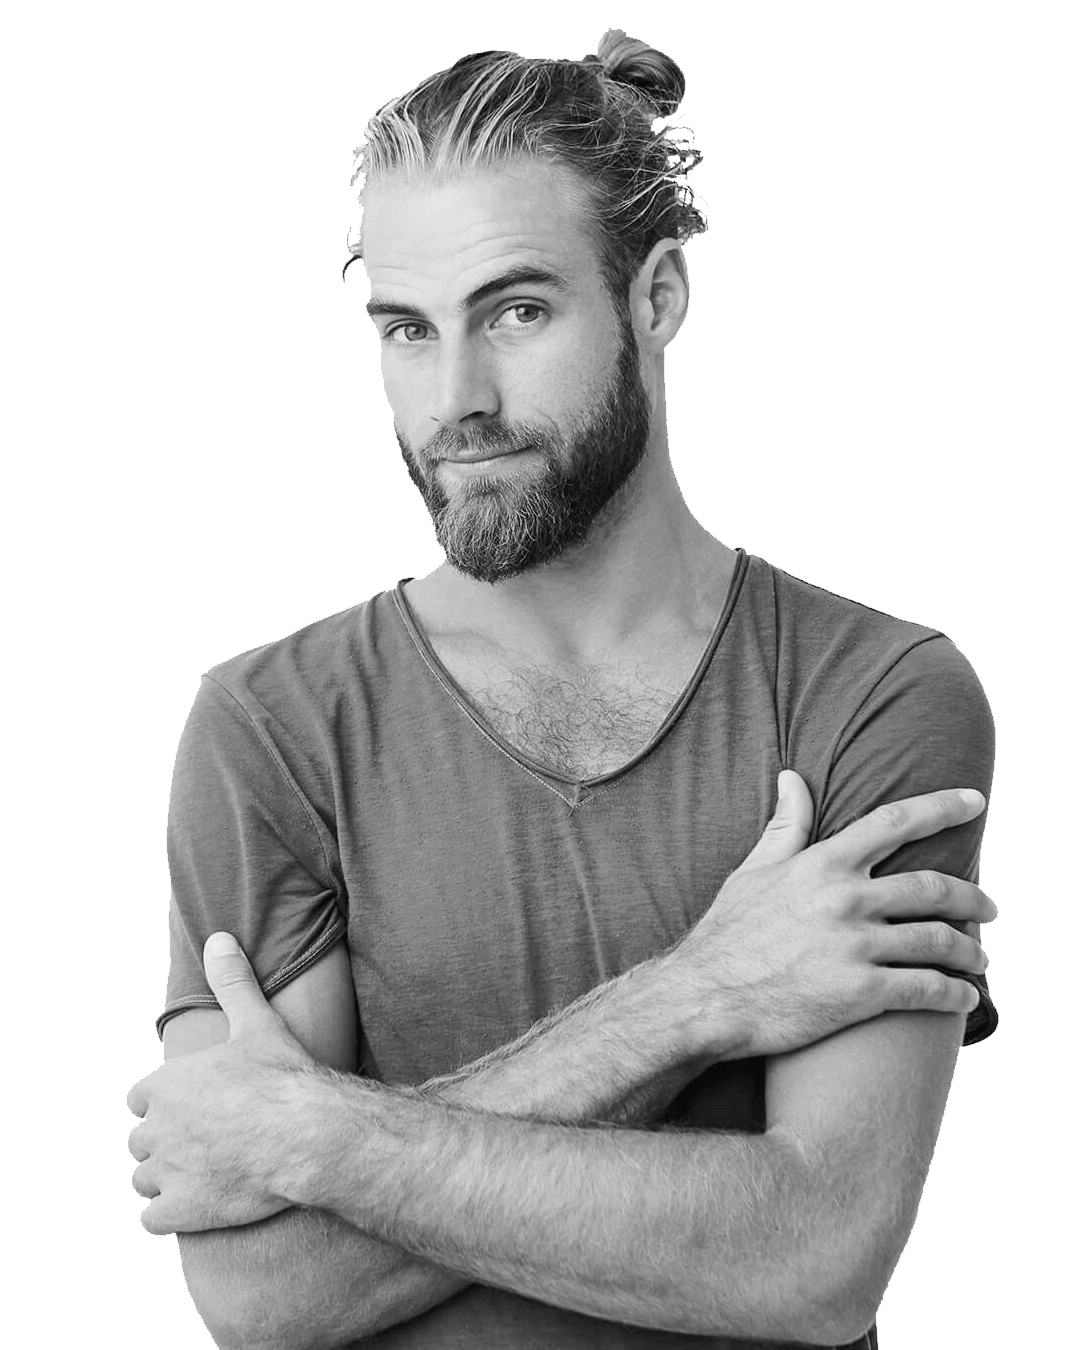
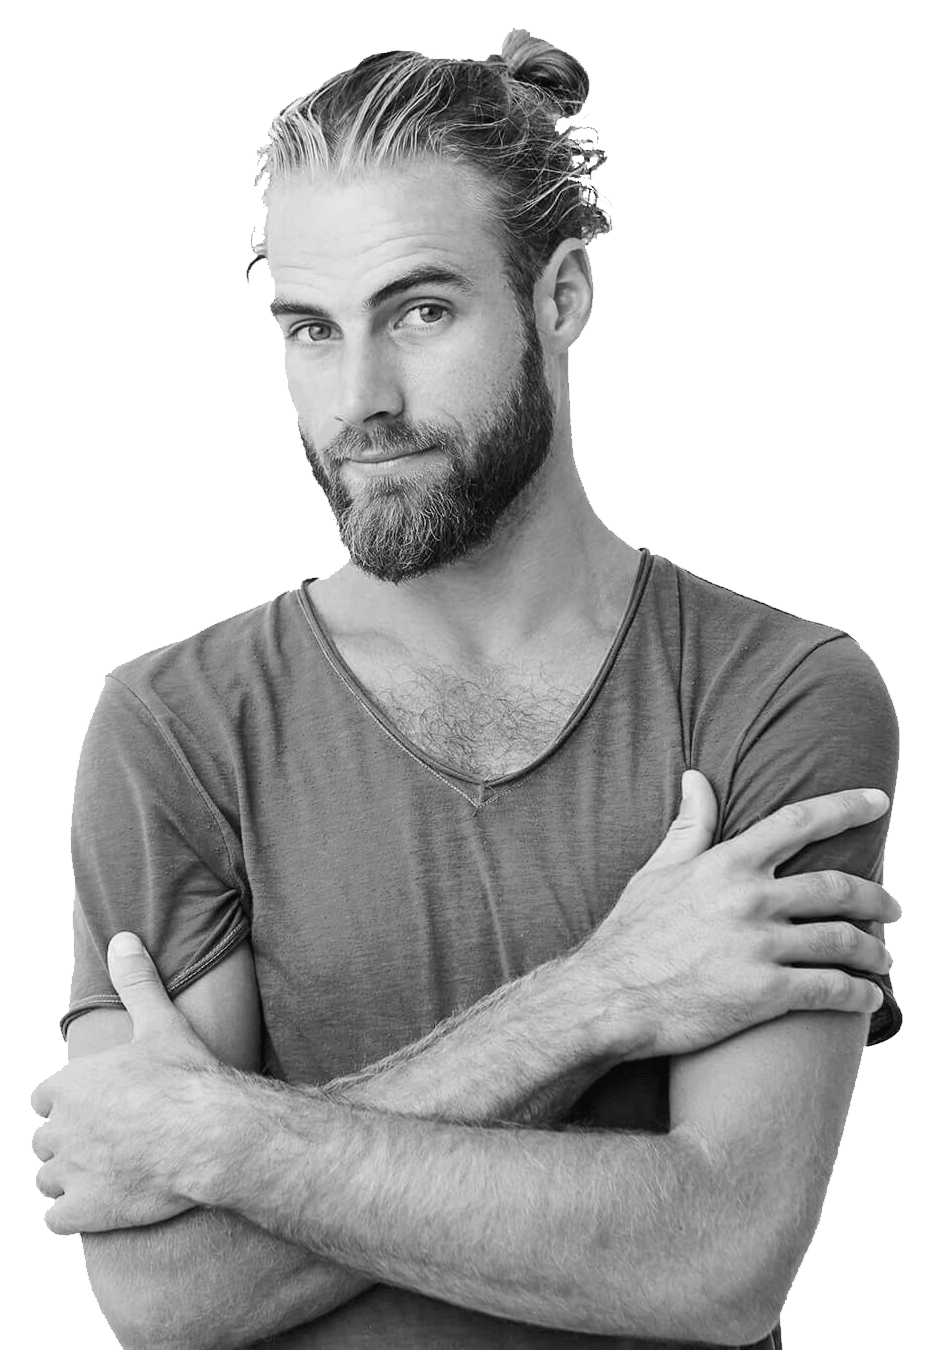
updated

Changed region(s): [[0.0312, 0.0, 0.9667, 1.0], [0.4989, 0.9644, 0.5613, 0.9956]]

diff --git a/portfolio-web/src/app/page.tsx b/portfolio-web/src/app/page.tsx
@@ -4,16 +4,17 @@ import Headings from "@/components/Headings";
 import { motion } from "framer-motion";
 import portfolioImage from "../../public/hero_02.png";
 import Button from "@/components/Button";
-import { IoCloudDownloadOutline } from "react-icons/io5";
+import { LuExternalLink } from "react-icons/lu";
 import { BsBarChartLine } from "react-icons/bs";
 import { MdOutlineRocketLaunch } from "react-icons/md";
 import { AiOutlinePieChart } from "react-icons/ai";
+import Link from "next/link";
 
 export default function Home() {
   return (
     <div className="px-6 lg:px-12 2xl:px-24 py-12">
-      <div className="flex h-[500px]">
-        <div className="px-2 overflow-hidden relative">
+      <div className="flex justify-end h-[500px] md:flex-row-reverse flex-col">
+        <div className="px-2 relative">
           <motion.span
             initial={{ scaleX: 0, x: "-50%" }}
             animate={{ scaleX: 1 }}
@@ -36,17 +37,17 @@ export default function Home() {
           </motion.p>
           <Headings headText="Zubair" headClass="-mb-6 z-10" />
           <Headings headText="Ahmed." headClass="mb-8 z-10" />
-          <a
+          <Link
             href="/my_resume.pdf"
-            download="My_Resume.pdf"
             className="btn btn-primary"
+            target="_blank"
           >
             <Button
-              btnText="Download CV"
-              btnClass=""
-              btnIcon={<IoCloudDownloadOutline />}
+              btnText="Resume"
+              btnClass="flex-row-reverse px-4 py-3"
+              btnIcon={<LuExternalLink className="ml-1" />}
             />
-          </a>
+          </Link>
         </div>
         <motion.div
           initial={{ opacity: 0, scale: 0.8, rotate: 15 }}
@@ -59,7 +60,7 @@ export default function Home() {
             alt="Portfolio Image"
             width={500}
             height={300}
-            className="w-[550px] relative -bottom-12 -z-20"
+            className="w-[480px] relative -bottom-12 -z-20"
           />
         </motion.div>
       </div>
@@ -70,7 +71,7 @@ export default function Home() {
           transition={{ delay: 0, duration: 0.5 }}
           className="px-10 py-16 shadow-lg border-2 border-red-400 bg-gradient-to-br from-red-500 via-red-600 to-orange-600"
         >
-          <BsBarChartLine className="text-white h-10 w-12 mb-12" />
+          <BsBarChartLine className="text-white h-12 w-12 mb-12" />
           <motion.p
             initial={{ opacity: 0, x: -15 }}
             animate={{ opacity: 1, x: 0 }}
@@ -97,7 +98,7 @@ export default function Home() {
           transition={{ delay: 0, duration: 0.5 }}
           className="group px-10 py-16 shadow-lg border-2 border-zinc-100 hover:border-red-400 bg-gradient-to-br from-white to-zinc-50 hover:bg-gradient-to-br hover:from-red-500 hover:via-red-600 hover:to-orange-600 "
         >
-          <MdOutlineRocketLaunch className="text-red-500 group-hover:text-white h-10 w-12 mb-12" />
+          <MdOutlineRocketLaunch className="text-red-500 group-hover:text-white h-12 w-12 mb-12" />
           <motion.p
             initial={{ opacity: 0, x: -15 }}
             animate={{ opacity: 1, x: 0 }}
@@ -124,14 +125,14 @@ export default function Home() {
           transition={{ delay: 0, duration: 0.5 }}
           className="group px-10 py-16 shadow-lg border-2 border-zinc-100 hover:border-red-400 bg-gradient-to-br from-white to-zinc-50 hover:bg-gradient-to-br hover:from-red-500 hover:via-red-600 hover:to-orange-600 "
         >
-          <AiOutlinePieChart className="text-red-500 group-hover:text-white h-10 w-12 mb-12" />
+          <AiOutlinePieChart className="text-red-500 group-hover:text-white h-12 w-12 mb-12" />
           <motion.p
             initial={{ opacity: 0, x: -15 }}
             animate={{ opacity: 1, x: 0 }}
             transition={{ delay: 0.3, duration: 0.6 }}
             className="font-bold text-2xl text-zinc-900  group-hover:text-white mb-1"
           >
-            Inovative Solutions.
+            Innovative Solutions.
           </motion.p>
           <hr className="w-12 border-red-500 border-[1px] group-hover:border-white mb-6" />
 
@@ -139,12 +140,12 @@ export default function Home() {
             initial={{ opacity: 0, x: -15 }}
             animate={{ opacity: 1, x: 0 }}
             transition={{ delay: 0.3, duration: 0.6 }}
-            className="text-sm text-zinc-900 group-hover:text-white "
+            className="text-sm text-zinc-900 group-hover:text-white"
           >
             The generated Lorem Ipsum is therefore always free from repetition,
             injected humour.
           </motion.p>
-          <div className="w-96 h-16 bg-red-500 absolute translate-y-1/2 right-1 md:right-6 2xl:right-10 -z-10"></div>
+          <div className="w-80 h-16 bg-red-500 absolute translate-y-1/2 right-1 md:right-6 2xl:right-10 -z-10"></div>
         </motion.div>
       </div>
     </div>
